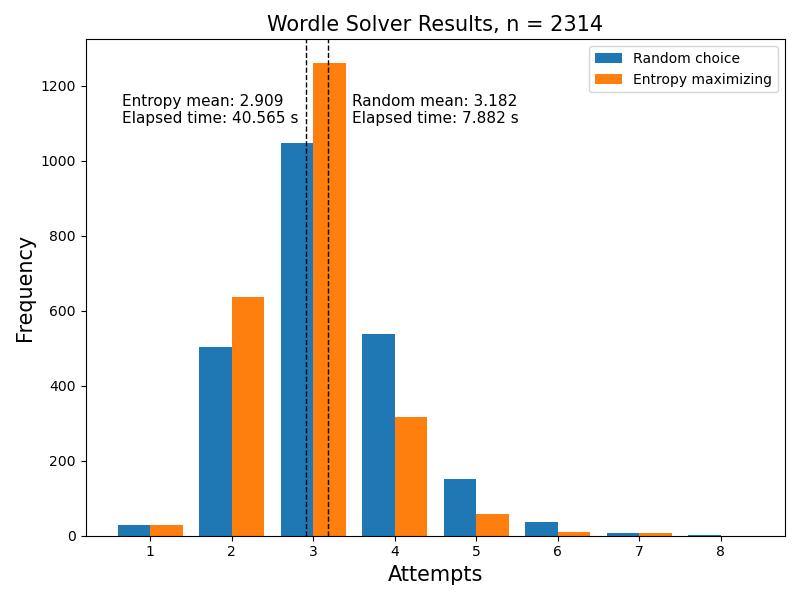
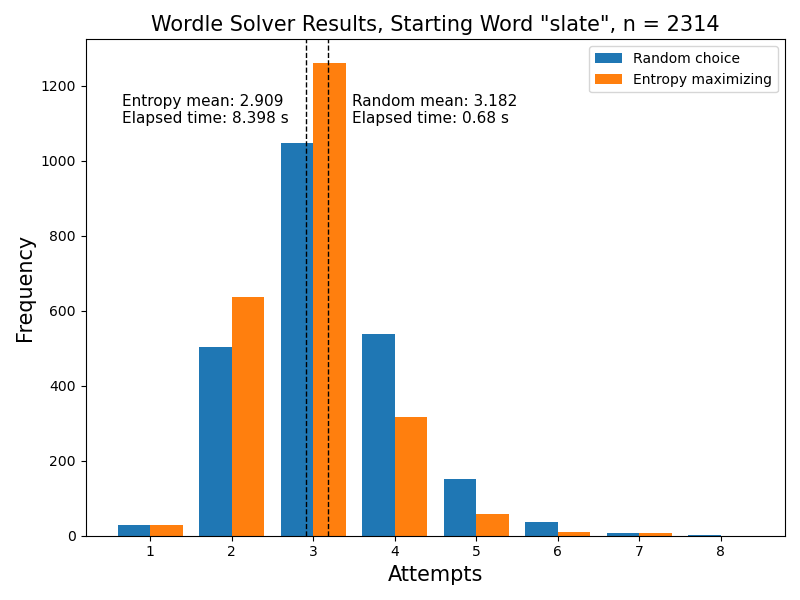
Updated plotter and plots

Changed region(s): [[0.1875, 0.0, 0.9062, 0.06], [0.5625, 0.18, 0.6562, 0.21], [0.2812, 0.18, 0.375, 0.21]]

diff --git a/testing/plot.py b/testing/plot.py
@@ -1,12 +1,12 @@
+from pathlib import Path
 import matplotlib.pyplot as plt
 import numpy as np
 
-# Change path to absolute path
-random_data = np.genfromtxt(r"./testing/random_data.csv", delimiter = ',')
+random_data = np.genfromtxt(Path("./test_data/full_random_data.csv"), delimiter = ',')
 random_time = random_data[-1]
 random_data = random_data[:-1] 
 
-entropy_data = np.genfromtxt(r"./testing/entropy_data.csv", delimiter = ',')
+entropy_data = np.genfromtxt(Path("./test_data/full_entropy_data.csv"), delimiter = ',')
 entropy_time = entropy_data[-1]
 entropy_data = entropy_data[:-1] 
 
@@ -14,24 +14,24 @@ data = [random_data, entropy_data]
 labels = ["Random choice", "Entropy maximizing"]
 
 fig, ax = plt.subplots(figsize = (8,6))
-n_bins = 7 # 1 to 8
-plt.hist(data, bins = np.arange(1, n_bins + 3)-0.5, label = labels)
+n_bins = 11
+plt.hist(data, bins = np.arange(1, n_bins + 2)-0.5, label = labels)
 
-plt.title(f"Wordle Solver Results, n = {len(random_data)}", fontsize = 15)
+plt.title(f"Wordle Solver Results, Starting Word \"slate\", n = {len(random_data)}", fontsize = 15)
 plt.xlabel("Attempts", fontsize = 15)
 plt.ylabel("Frequency", fontsize = 15)
-plt.xticks(range(1, n_bins + 2))
+plt.xticks(range(1, n_bins + 1))
 plt.legend()
 
 random_mean = np.mean(random_data)
 plt.axvline(random_mean, c = 'k', ls = '--', lw = 1)
-plt.text(random_mean + 0.3, 1100, f"Random mean: {random_mean:.3f}\nElapsed time: {random_time} s", 
+plt.text(random_mean + 0.3, 3500, f"Random mean: {random_mean:.3f}\nElapsed time: {random_time} s", 
          transform = ax.transData, fontsize =11)
 
 entropy_mean = np.mean(entropy_data)
 plt.axvline(entropy_mean, c = 'k', ls = '--', lw = 1)
-plt.text(entropy_mean - 2.25, 1100, f"Entropy mean: {entropy_mean:.3f}\nElapsed time: {entropy_time} s", 
+plt.text(entropy_mean - 3.7, 3500, f"Entropy mean: {entropy_mean:.3f}\nElapsed time: {entropy_time} s", 
          transform = ax.transData, fontsize =11)
 
 plt.tight_layout()
-plt.savefig(r"./testing/plot.png")
+plt.savefig(Path("./full_plot.png"))
